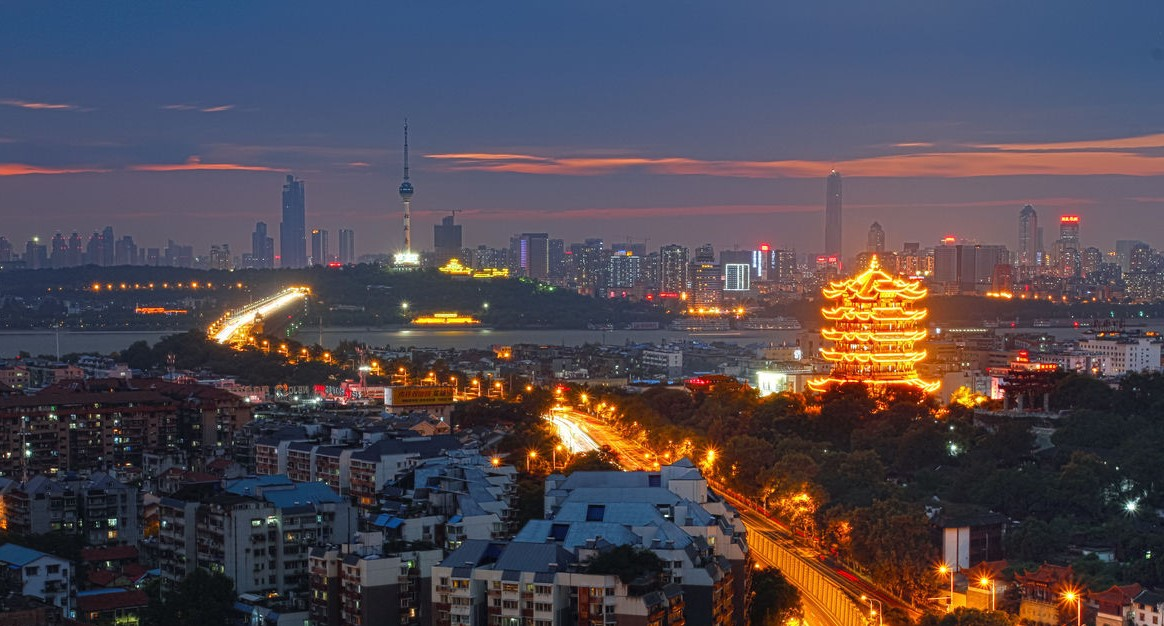
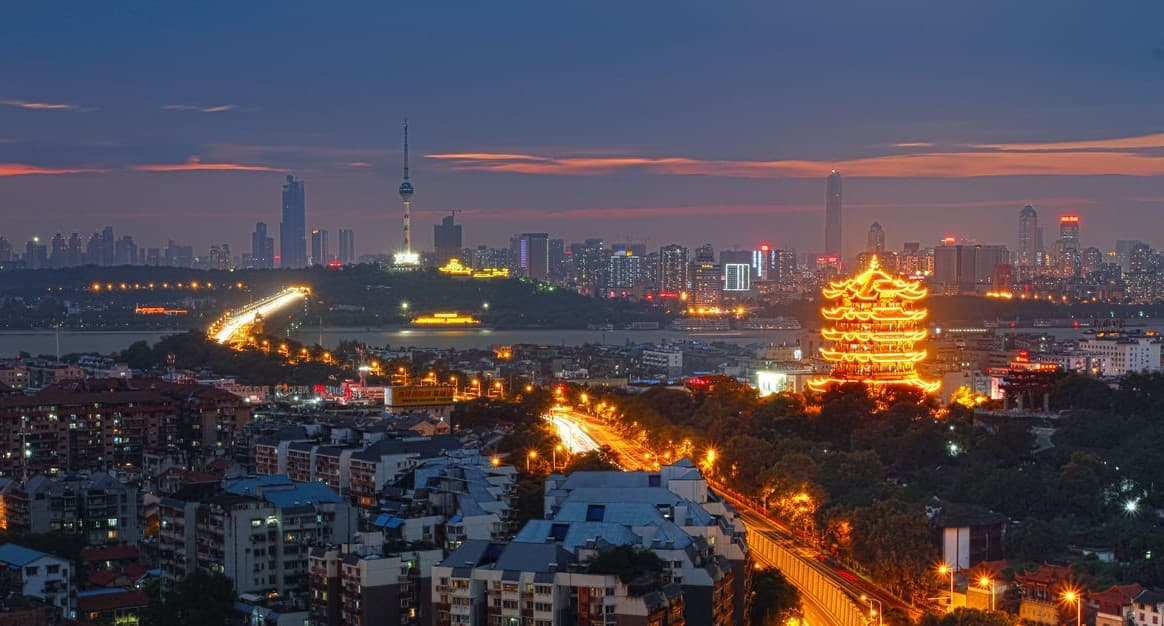
solve the problem of webp on safari

Changed region(s): [[0.7113, 0.4553, 0.7423, 0.5463], [0.7423, 0.4249, 0.8041, 0.4553], [0.7113, 0.5767, 0.7423, 0.607]]

diff --git a/_includes/head.html b/_includes/head.html
@@ -19,7 +19,7 @@
     <link rel="shortcut icon" href="{{ site.baseurl }}/img/favicon.ico">
 
     <!-- Safari Webpage Icon    by-BY -->
-    <link rel="apple-touch-icon" href="{{ site.baseurl }}/img/apple-touch-icon.webp">
+    <link rel="apple-touch-icon" href="{{ site.baseurl }}/img/apple-touch-icon.jpg">
     
     <!-- Canonical URL -->
     <link rel="canonical" href="{{ page.url | replace:'index.html','' | prepend: site.baseurl | prepend: site.url }}">

diff --git a/_layouts/default.html b/_layouts/default.html
@@ -14,7 +14,7 @@
 
 
 <!-- Image to hack wechat -->
-<img alt="icon" src="/img/apple-touch-icon.webp" width="0" height="0" />
+<img alt="icon" src="/img/apple-touch-icon.jpeg" width="0" height="0" />
 <!-- Migrate from head to bottom, no longer block render and still work -->
 
 <!--对crisp的支持-->>

diff --git a/tags.html b/tags.html
@@ -2,7 +2,7 @@
 title: Tags
 layout: default
 description: If you weeped for the missing sunset,you would miss all the shining stars.
-header-img: "img/paris0.webp"
+header-img: "img/paris0.jpg"
 ---
 
 <!-- Page Header -->

diff --git a/about.html b/about.html
@@ -2,7 +2,7 @@
 layout: page
 title: "About"
 description: "Hey, this is Tony."
-header-img: "img/wuhan0.webp"
+header-img: "img/wuhan0.jpg"
 ---
 
 <!-- Language Selector -->
